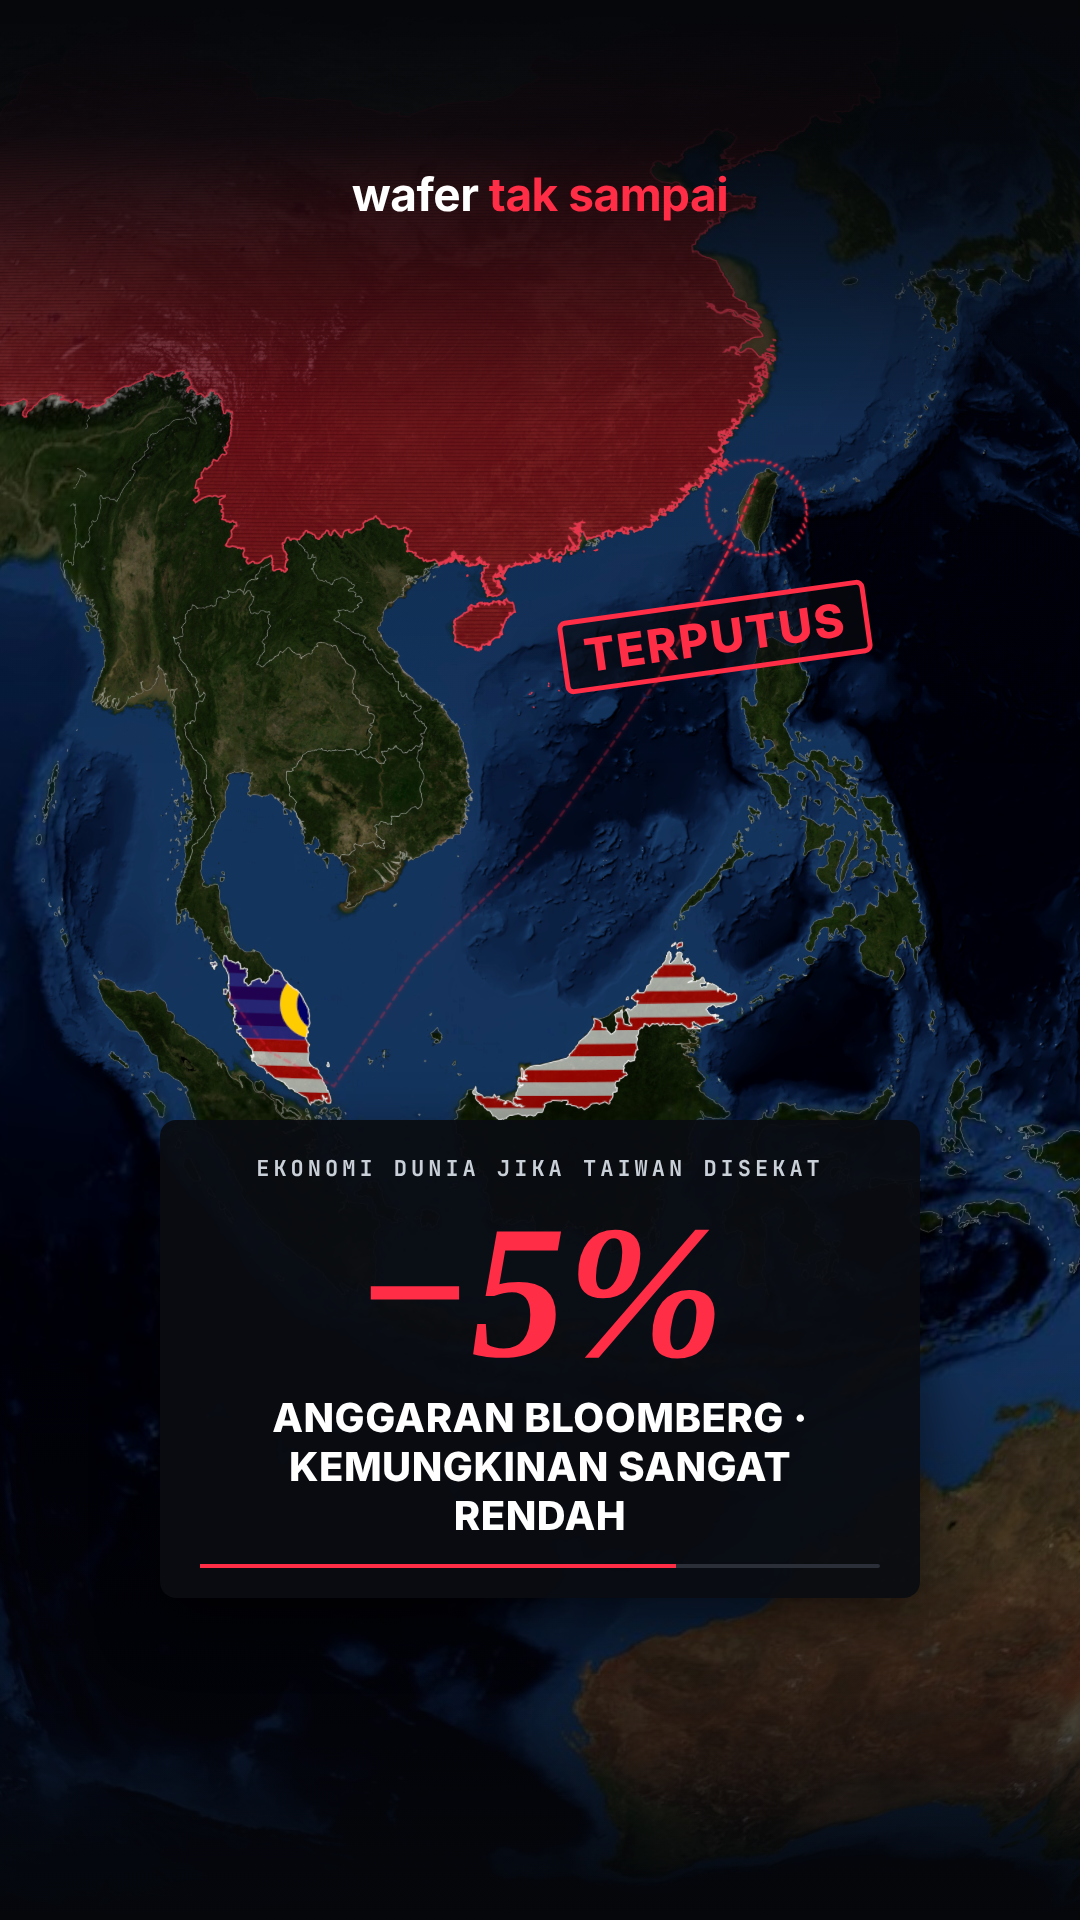
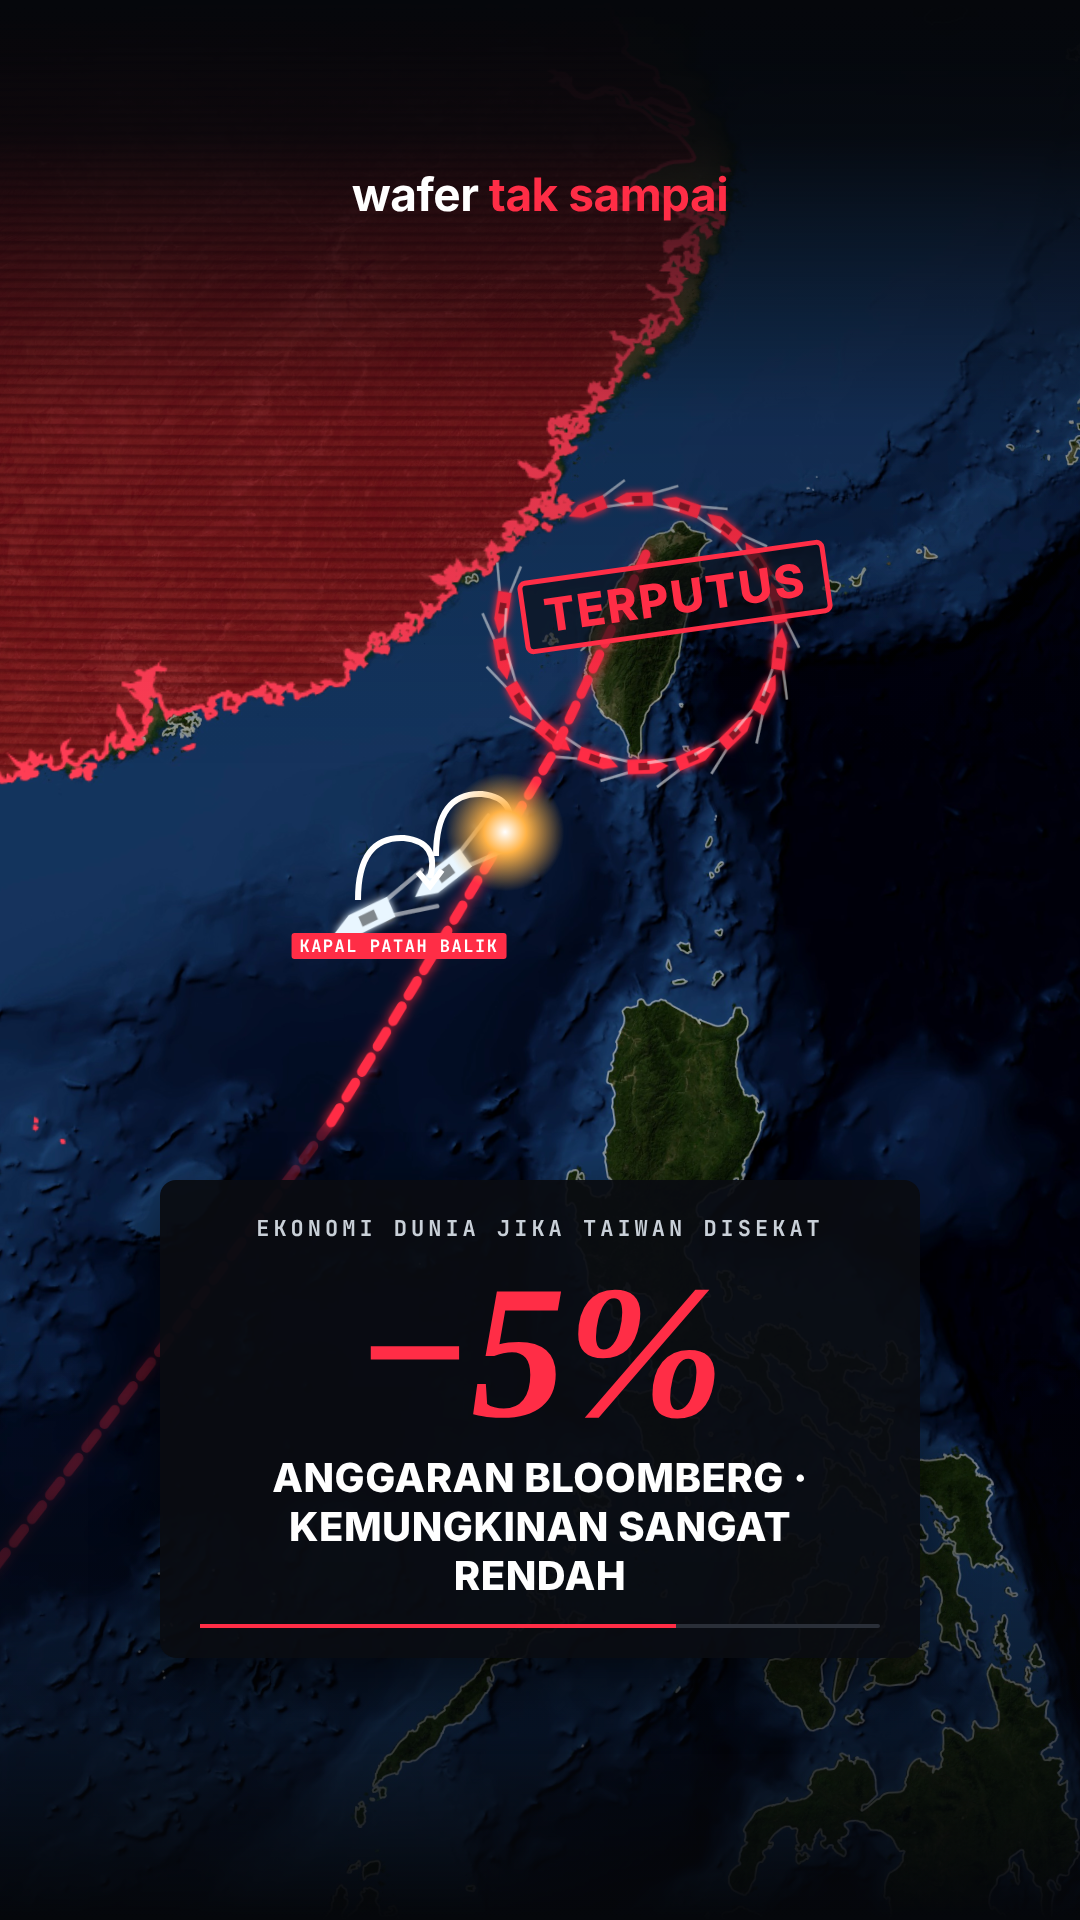
taiwan-video: storyboard adds moving ships, rocket arcs into drill zones, blockade turn-back
Claude-Session: https://claude.ai/code/session_01GRVCpWmiskqov5jCfdMsbZ

diff --git a/taiwan-video/boards/frame.html b/taiwan-video/boards/frame.html
@@ -116,6 +116,7 @@ function lanes() {
   c.setLineDash([]); L.tex.needsUpdate = true;
 }
 
+// (helpers that need html() are defined after it)
 // ---------- HTML helpers ----------
 const ov = document.getElementById("ov");
 const FL = {
@@ -141,6 +142,46 @@ const cap = (s) => html(`<div class="cap">${s}</div>`);
 const card = (top, outlet, date, head, foot, media) => html(`<div class="card" style="top:${top}px"><div class="hd"><b>${outlet}</b><i>${date}</i></div><div class="bd">${head}<div class="ft">${foot}</div></div>${media ? `<div class="media">${media}</div>` : ""}</div>`);
 const stat = (top, k, n, u) => html(`<div class="stat" style="top:${top}px"><div class="k">${k}</div><div class="n">${n}</div><div class="u">${u}</div><div class="bar"><div></div></div></div>`);
 
+
+// top-down ship silhouette (pointed bow) with a short wake
+function shipIcon(L, lo, la, ang, col, sz = 1, wake = true) {
+  const c = L.ctx; c.save(); c.translate(L.ox(lo), L.oy(la)); c.rotate(ang); c.scale(sz, sz);
+  if (wake) { c.strokeStyle = "rgba(255,255,255,.55)"; c.lineWidth = 2; c.beginPath(); c.moveTo(-14, -4); c.lineTo(-34, -9); c.moveTo(-14, 4); c.lineTo(-34, 9); c.stroke(); }
+  c.shadowColor = col; c.shadowBlur = 10; c.fillStyle = col;
+  c.beginPath(); c.moveTo(16, 0); c.lineTo(6, -5); c.lineTo(-14, -5); c.lineTo(-14, 5); c.lineTo(6, 5); c.closePath(); c.fill();
+  c.shadowBlur = 0; c.fillStyle = "rgba(0,0,0,.45)"; c.fillRect(-6, -2.5, 8, 5); c.restore();
+}
+function ringShips(n = 16, r = 1.55) {
+  for (let i = 0; i < n; i++) { const a = i / n * 6.283 + .2, lo = 120.9 + r * 1.1 * Math.cos(a), la = 23.7 + r * Math.sin(a);
+    if (lo < 119.6 && la > 24.2 && la < 25.6) continue; shipIcon(lines, lo, la, -(a + 1.57), "#ff2d46", 1.6); }
+  lines.tex.needsUpdate = true;
+}
+function cargoShips(P, sz = 2) { for (const [lo, la, a] of P) shipIcon(lines, lo, la, a, "#e9f6ff", sz); lines.tex.needsUpdate = true; }
+// approximate drill zone: dashed red box + hatch
+function zone(lo0, la0, lo1, la1) {
+  const L = lines, c = L.ctx, x = L.ox(lo0), y = L.oy(la1), w = L.ox(lo1) - x, h = L.oy(la0) - y;
+  c.save(); c.beginPath(); c.rect(x, y, w, h); c.clip(); c.strokeStyle = "rgba(255,45,70,.35)"; c.lineWidth = 3;
+  for (let k = -h; k < w; k += 14) { c.beginPath(); c.moveTo(x + k, y + h); c.lineTo(x + k + h, y); c.stroke(); } c.restore();
+  c.setLineDash([12, 8]); c.strokeStyle = "#ff2d46"; c.lineWidth = 4; c.strokeRect(x, y, w, h); c.setLineDash([]); L.tex.needsUpdate = true;
+}
+function splash(lo, la) { const L = lines, c = L.ctx; c.strokeStyle = "#ffd0a0"; for (const [r, a] of [[6, 1], [13, .7], [21, .4]]) { c.globalAlpha = a; c.lineWidth = 3; c.beginPath(); c.arc(L.ox(lo), L.oy(la), r, 0, 7); c.stroke(); } c.globalAlpha = 1; L.tex.needsUpdate = true; }
+// rocket arcs drawn on screen between projected points (lifted bezier), with trail glow + head
+function rockets(pairs, prog = 1) {
+  let svg = `<svg style="position:absolute;inset:0" width="1080" height="1920"><defs><linearGradient id="rg" x1="0" x2="1"><stop offset="0" stop-color="#ff9a3c" stop-opacity="0"/><stop offset="1" stop-color="#ffe2b0"/></linearGradient><filter id="gw"><feGaussianBlur stdDeviation="4"/></filter></defs>`;
+  for (const [a, b, p = prog] of pairs) {
+    const A = g.project(a[1], a[0]), B = g.project(b[1], b[0]); const d = Math.hypot(B.x - A.x, B.y - A.y);
+    const C = { x: (A.x + B.x) / 2, y: (A.y + B.y) / 2 - d * 0.55 };
+    const q = (t) => ({ x: (1 - t) ** 2 * A.x + 2 * (1 - t) * t * C.x + t * t * B.x, y: (1 - t) ** 2 * A.y + 2 * (1 - t) * t * C.y + t * t * B.y });
+    const pts = Array.from({ length: 30 }, (_, i) => q(i / 29 * p)); const path = "M" + pts.map((o) => `${o.x.toFixed(1)} ${o.y.toFixed(1)}`).join(" L");
+    const h = pts[pts.length - 1];
+    svg += `<path d="${path}" stroke="#ff6a2a" stroke-width="10" fill="none" opacity=".55" filter="url(#gw)"/><path d="${path}" stroke="#ffd9a8" stroke-width="3.5" fill="none" stroke-dasharray="2 7" stroke-linecap="round"/>`;
+    if (p < 1) svg += `<circle cx="${h.x}" cy="${h.y}" r="14" fill="#ffb347" filter="url(#gw)"/><circle cx="${h.x}" cy="${h.y}" r="6" fill="#fff"/>`;
+    svg += `<circle cx="${A.x}" cy="${A.y}" r="16" fill="#ff8a2a" opacity=".8" filter="url(#gw)"/><circle cx="${A.x}" cy="${A.y}" r="5" fill="#fff"/>`;
+  }
+  html(svg + "</svg>");
+}
+const tag = (lat, lon, t) => { const p = g.project(lat, lon); html(`<div class="sub red" style="position:absolute;left:${p.x}px;top:${p.y}px;transform:translate(-50%,-50%)">${t}</div>`); };
+
 // ---------- frames ----------
 const win = (txt) => html(`<div class="win">B-ROLL · FLOW AI<em>${txt}</em><i>ILUSTRASI · AI</i></div>`);
 const FR = {
@@ -150,14 +191,17 @@ const FR = {
     cap(`buat lebih <span class="r">90%</span> cip <span class="g">paling canggih</span>`);
     flagPin(23.2, 121.6, "TW", "TAIWAN"); locPin(24.8, 120.95, "HSINCHU", "TSMC");
     stat(1080, "CIP PALING CANGGIH DUNIA", "90%+", "BUATAN TAIWAN · 5nm KE BAWAH"); },
-  3() { g.setView({ lat: 23.8, lon: 120.2, dist: 0.95, tilt: 14, yShift: 0.13 }); lanes(); twGlow();
+  3() { g.setView({ lat: 23.8, lon: 120.2, dist: 0.95, tilt: 14, yShift: 0.13 }); lanes(); twGlow(); cargoShips([[117.5,22.3,-0.5],[120.2,24.9,-0.95],[118.6,22.2,-0.62],[122.6,23,-1.1],[115.6,20.8,-0.45]]);
     cap(`hampir separuh <span class="r">kapal kontena</span> <span class="g">dunia</span>`);
     locPin(24.3, 119.6, "SELAT TAIWAN", "LALUAN KAPAL");
     stat(1100, "KAPAL KONTENA DUNIA LALU SELAT TAIWAN", "48%", "DATA BLOOMBERG · 2022"); },
-  4() { g.setView({ lat: 24.2, lon: 120.4, dist: 1.25, tilt: 12, yShift: 0.13 }); chinaRed(); ring(); twGlow();
-    cap(`latihan <span class="r">Justice Mission</span>: <span class="g">kepung Taiwan</span>`);
-    flagPin(28.5, 116.5, "CN", "CHINA"); locPin(25.13, 121.74, "KEELUNG", "SEKATAN · LATIHAN", true); locPin(22.62, 120.27, "KAOHSIUNG", "SEKATAN · LATIHAN", true);
-    card(1150, "USNI NEWS", "31 DIS 2025", `China Wraps 'Justice Mission' <mark>Taiwan Blockade Drills</mark>`, "Tajuk asal · news.usni.org", ""); },
+  4() { g.setView({ lat: 23.7, lon: 120.6, dist: 0.5, tilt: 16, yShift: 0.13 }); chinaRed(); twGlow(); ringShips(14, 1.75);
+    zone(121.3, 25.6, 122.6, 26.4); zone(119.9, 21.2, 121.2, 21.9); splash(121.8, 26.0); splash(122.2, 25.9); splash(120.4, 21.5); splash(120.8, 21.6);
+    cap(`kepung Taiwan, <span class="r">tembak roket</span> <span class="g">ke perairan</span>`);
+    rockets([[[119.7, 25.5], [121.8, 26.0]], [[119.5, 25.3], [122.2, 25.9], .7], [[117.9, 24.0], [120.4, 21.5]], [[118.2, 24.3], [120.8, 21.6], .55]]);
+    tag(26.55, 122.0, "ZON LATIHAN"); tag(21.0, 120.55, "ZON LATIHAN");
+    locPin(25.13, 121.74, "KEELUNG", "SEKATAN · LATIHAN", true); locPin(22.62, 120.27, "KAOHSIUNG", "SEKATAN · LATIHAN", true);
+    card(1250, "USNI NEWS", "30 DIS 2025", `Chinese Forces <mark>Fire Rockets Near Taiwan</mark>, Practice Port Seizure`, "Tajuk asal · news.usni.org · zon = anggaran", ""); },
   5() { g.setView({ lat: 23, lon: 124.5, dist: 1.6, tilt: 12, yShift: 0.13 }); chinaRed(); ships(); twGlow();
     cap(`<span class="r">100+ kapal</span> China di <span class="g">Pasifik Barat</span>`);
     win("armada kapal perang dari udara, senja (klip fleet dari video LCS)");
@@ -170,10 +214,13 @@ const FR = {
     cap(`<span class="r">13%</span> kerja pasang & uji <span class="g">cip dunia</span>`);
     stat(1220, "KERJA PASANG, UJI & BUNGKUS CIP DUNIA", "13%", "MALAYSIA · ANGGARAN MIDA");
     html(`<div class="stat" style="top:1640px;padding:16px 40px;display:none"><div class="k">EKSPORT E&amp;E 2025</div><div class="n" style="font-size:96px;margin:6px 0 0">RM712b</div><div class="u" style="font-size:30px">≈ 44% EKSPORT MALAYSIA</div></div>`); },
-  8() { g.setView({ lat: 14.5, lon: 112, dist: 2.3, tilt: 8, yShift: 0.11 }); chinaRed(); malaysiaFlag(); ring(); waferLine(true);
-    cap(`wafer <span class="r">tak sampai</span>`);
-    html(`<div class="stamp" style="left:560px;top:600px">TERPUTUS</div>`);
-    stat(1120, "EKONOMI DUNIA JIKA TAIWAN DISEKAT", "−5%", "ANGGARAN BLOOMBERG · KEMUNGKINAN SANGAT RENDAH"); },
+  8() { g.setView({ lat: 22.6, lon: 119.4, dist: 0.85, tilt: 14, yShift: 0.13 }); chinaRed(); ringShips(18, 1.9); waferLine(true);
+    cargoShips([[118.0, 20.3, 2.5], [116.9, 19.7, 2.7]], 2.4);
+    for (const [lo, la] of [[118.0, 20.3], [116.9, 19.7]]) { const p = g.project(la, lo); html(`<svg style="position:absolute;left:${p.x - 20}px;top:${p.y - 100}px" width="110" height="100"><path d="M14 80 Q14 16 60 18 Q96 22 86 58" stroke="#fff" stroke-width="6" fill="none"/><path d="M74 52 L86 66 L98 50" stroke="#fff" stroke-width="6" fill="none"/></svg>`); }
+    { const p = g.project(20.9, 118.9); html(`<div style="position:absolute;left:${p.x}px;top:${p.y}px;transform:translate(-50%,-50%);width:120px;height:120px;border-radius:50%;background:radial-gradient(#fff,#ffb347 25%,rgba(255,80,40,0) 70%)"></div>`); }
+    cap(`wafer <span class="r">tak sampai</span>`); tag(19.3, 117.4, "KAPAL PATAH BALIK");
+    html(`<div class="stamp" style="left:520px;top:560px">TERPUTUS</div>`);
+    stat(1180, "EKONOMI DUNIA JIKA TAIWAN DISEKAT", "−5%", "ANGGARAN BLOOMBERG · KEMUNGKINAN SANGAT RENDAH"); },
   9() { g.setView({ lat: 12, lon: 110, dist: 3.0, tilt: 6, yShift: 0.03 }); malaysiaFlag(); waferLine(false); twGlow();
     cap(`kesannya sampai ke <span class="r">Pulau Pinang</span>`);
     html(`<div class="title" style="top:1230px"><div class="c" style="font-size:52px;letter-spacing:2px">JANGAN TERLEPAS</div><div class="ln" style="width:300px"></div><div style="font:800 26px Inter;margin-top:24px">Untuk part seterusnya &nbsp;<span style="background:#ff2d46;padding:10px 20px;border-radius:8px">Follow</span> <span style="background:#ff2d46;padding:10px 20px;border-radius:8px">Subscribe</span></div></div>`); },

diff --git a/taiwan-video/boards/storyboard.html b/taiwan-video/boards/storyboard.html
@@ -22,12 +22,12 @@ h1{font:800 46px Inter;letter-spacing:-1px}h1 span{color:#ff2d46}
 <div class="grid">
 <div class="f"><img src="frame-01.png"><div><div class="n">01 · 0:00</div><div class="t">Hook</div><div class="vo">"Kalau China sekat Taiwan… kilang cip di Pulau Pinang boleh terhenti. Ni sebabnya."</div><div class="fx">Glob berputar, Taiwan berdenyut merah, garis wafer menyala dari Taiwan ke Pulau Pinang. Tajuk slam masuk. <b>SFX:</b> whoosh + impak.</div></div></div>
 <div class="f"><img src="frame-02.png"><div><div class="n">02 · 0:04</div><div class="t">90% cip canggih</div><div class="vo">"Taiwan. Pulau kecil ni buat lebih sembilan puluh peratus cip paling canggih dunia."</div><div class="fx">Menjunam ke Taiwan, garis pantai menyala. Pin Hsinchu (TSMC). Kad <b>90%+</b> count-up, label "5nm KE BAWAH".</div></div></div>
-<div class="f"><img src="frame-03.png"><div><div class="n">03 · 0:09</div><div class="t">Selat Taiwan</div><div class="vo">"Dan hampir separuh kapal kontena dunia lalu Selat Taiwan."</div><div class="fx">Zoom out sikit, laluan kapal bertitik mengalir melalui selat. Kad <b>48%</b>, label "DATA BLOOMBERG · 2022".</div></div></div>
-<div class="f"><img src="frame-04.png"><div><div class="n">04 · 0:13</div><div class="t">Justice Mission</div><div class="vo">"China anggap Taiwan wilayahnya. Hujung tahun lepas… kepung Taiwan, berlatih sekat Keelung dan Kaohsiung."</div><div class="fx">China jadi merah, cincin kapal merah tertutup keliling Taiwan. Pin pelabuhan merah. Kad USNI, highlight "Taiwan Blockade Drills".</div></div></div>
+<div class="f"><img src="frame-03.png"><div><div class="n">03 · 0:09</div><div class="t">Selat Taiwan</div><div class="vo">"Dan hampir separuh kapal kontena dunia lalu Selat Taiwan."</div><div class="fx">Zoom out sikit, laluan kapal bertitik mengalir melalui selat, <b>ikon kapal kontena bergerak</b> ikut laluan. Kad <b>48%</b>, label "DATA BLOOMBERG · 2022".</div></div></div>
+<div class="f"><img src="frame-04.png"><div><div class="n">04 · 0:13</div><div class="t">Justice Mission</div><div class="vo">"China anggap Taiwan wilayahnya. Hujung tahun lepas… kepung Taiwan, tembak roket ke perairan, berlatih sekat Keelung dan Kaohsiung."</div><div class="fx">Zoom rapat ke Taiwan. <b>Kapal perang merah belayar</b> membentuk cincin. <b>Roket melengkung</b> dari pantai China (kilat + ekor api) jatuh ke 2 zon latihan (anggaran), percikan bulat. Pin pelabuhan merah. Kad USNI 30 Dis, highlight "Fire Rockets Near Taiwan".</div></div></div>
 <div class="f"><img src="frame-05.png"><div><div class="n">05 · 0:22</div><div class="t">100+ kapal</div><div class="vo">"Awal bulan ni, pegawai Taiwan kata lebih seratus kapal China berkumpul di Pasifik Barat, tanpa diumumkan."</div><div class="fx">Pan ke timur, titik kapal berpusu. Tetingkap <b>B-roll armada</b> (klip LCS) + kad Taipei Times. Hentakan pada "seratus".</div></div></div>
 <div class="f"><img src="frame-06.png"><div><div class="n">06 · 0:29</div><div class="t">Wafer ke Pulau Pinang</div><div class="vo">"Apa kena-mengena dengan kita? Banyak wafer cip dari Taiwan dihantar ke Pulau Pinang untuk dipasang dan diuji."</div><div class="fx">Kamera terbang ke selatan ikut garis wafer yang bergerak. Malaysia diisi bendera. Pin Hsinchu ➜ Pulau Pinang. <b>B-roll:</b> wafer dalam bilik bersih.</div></div></div>
 <div class="f"><img src="frame-07.png"><div><div class="n">07 · 0:36</div><div class="t">13% dunia</div><div class="vo">"Malaysia pegang kira-kira tiga belas peratus kerja pasang dan uji cip dunia. Elektrik dan elektronik pula hampir separuh eksport negara."</div><div class="fx">Zoom ke Pulau Pinang. <b>B-roll:</b> lengan robot pasang cip. Kad <b>13%</b> (ANGGARAN MIDA), lepas tu kad <b>RM712 bilion ≈ 44%</b> eksport.</div></div></div>
-<div class="f"><img src="frame-08.png"><div><div class="n">08 · 0:45</div><div class="t">Terputus</div><div class="vo">"Kalau Taiwan disekat, wafer tak sampai… Bloomberg kata kemungkinan sangat rendah. Tapi kalau berlaku, ekonomi dunia boleh susut kira-kira lima peratus."</div><div class="fx">Cincin kapal tutup, garis wafer jadi merah dan putus, cop <b>TERPUTUS</b>. Kad <b>−5%</b> + label "KEMUNGKINAN SANGAT RENDAH".</div></div></div>
+<div class="f"><img src="frame-08.png"><div><div class="n">08 · 0:45</div><div class="t">Terputus</div><div class="vo">"Kalau Taiwan disekat, wafer tak sampai… Bloomberg kata kemungkinan sangat rendah. Tapi kalau berlaku, ekonomi dunia boleh susut kira-kira lima peratus."</div><div class="fx">Zoom ke selatan Taiwan: cincin kapal perang tutup, <b>kapal kontena sampai lalu patah balik</b> (anak panah U), garis wafer merah putus dengan percikan api, cop <b>TERPUTUS</b>. Kad <b>−5%</b> + label "KEMUNGKINAN SANGAT RENDAH".</div></div></div>
 <div class="f"><img src="frame-09.png"><div><div class="n">09 · 0:55</div><div class="t">Penutup</div><div class="vo">"Taiwan nampak jauh. Tapi kalau selat tu tertutup… kesannya sampai ke Pulau Pinang."</div><div class="fx">Tarik balik ke glob, garis Taiwan–Pulau Pinang menyala semula. Outro: JANGAN TERLEPAS + [Follow] [Subscribe].</div></div></div>
 </div>
 <div class="meta" style="margin-top:30px">Caption atas, perkataan demi perkataan · zoom punch pada kata kunci · B-roll dalam tetingkap kecil (ILUSTRASI · AI) · satu shot kamera berterusan</div>

diff --git a/taiwan-video/SCRIPT.md b/taiwan-video/SCRIPT.md
@@ -8,7 +8,7 @@ Nada: pembaca berita, laju. Anggaran ~155 patah perkataan, ~60 s selepas dilajuk
 | 01 | Kalau China sekat Taiwan… kilang cip di Pulau Pinang boleh terhenti. Ni sebabnya. | Glob berputar, Taiwan berdenyut merah, garis putih Taiwan → Pulau Pinang · tajuk **KALAU TAIWAN DISEKAT** |
 | 02 | Taiwan. Pulau kecil ni buat lebih sembilan puluh peratus cip paling canggih dunia. | Zoom ke Taiwan, pin bendera · kad stat **90%+** (5nm ke bawah) |
 | 03 | Dan hampir separuh kapal kontena dunia lalu Selat Taiwan. | Laluan kapal bertitik mengalir melalui selat · kad stat **48%** (data 2022) |
-| 04 | China anggap Taiwan wilayahnya. Hujung tahun lepas, China buat latihan Justice Mission: kepung Taiwan, dan berlatih sekat pelabuhan Keelung dan Kaohsiung. | China merah, cincin kapal merah keliling Taiwan, pin Keelung & Kaohsiung · kad **USNI News** |
+| 04 | China anggap Taiwan wilayahnya. Hujung tahun lepas, China buat latihan Justice Mission: kepung Taiwan, tembak roket ke perairan berhampiran, dan berlatih sekat pelabuhan Keelung dan Kaohsiung. | China merah, cincin kapal merah keliling Taiwan, pin Keelung & Kaohsiung · kad **USNI News** |
 | 05 | Awal bulan ni, pegawai Taiwan kata lebih seratus kapal China berkumpul di Pasifik Barat, tanpa diumumkan. | Titik kapal berpusu di timur Taiwan · kad **Taipei Times** + tetingkap B-roll armada |
 | 06 | Apa kena-mengena dengan kita? Banyak wafer cip dari Taiwan dihantar ke Pulau Pinang untuk dipasang dan diuji. | Kamera terbang ke selatan ikut garis wafer Hsinchu → Pulau Pinang · Malaysia bendera · B-roll wafer |
 | 07 | Malaysia pegang kira-kira tiga belas peratus kerja pasang dan uji cip dunia. Elektrik dan elektronik pula hampir separuh eksport negara. | Zoom Pulau Pinang, pin Bayan Lepas & Kulim · stat **13%** lalu **RM712 bilion / ~44%** |
@@ -17,7 +17,7 @@ Nada: pembaca berita, laju. Anggaran ~155 patah perkataan, ~60 s selepas dilajuk
 
 ## Versi satu perenggan (untuk rakam VO)
 
-Kalau China sekat Taiwan… kilang cip di Pulau Pinang boleh terhenti. Ni sebabnya. Taiwan. Pulau kecil ni buat lebih sembilan puluh peratus cip paling canggih dunia. Dan hampir separuh kapal kontena dunia lalu Selat Taiwan. China anggap Taiwan wilayahnya. Hujung tahun lepas, China buat latihan Justice Mission: kepung Taiwan, dan berlatih sekat pelabuhan Keelung dan Kaohsiung. Awal bulan ni, pegawai Taiwan kata lebih seratus kapal China berkumpul di Pasifik Barat, tanpa diumumkan. Apa kena-mengena dengan kita? Banyak wafer cip dari Taiwan dihantar ke Pulau Pinang untuk dipasang dan diuji. Malaysia pegang kira-kira tiga belas peratus kerja pasang dan uji cip dunia. Elektrik dan elektronik pula hampir separuh eksport negara. Kalau Taiwan disekat, wafer tak sampai. Barisan kilang boleh berhenti. Bloomberg kata kemungkinan sekatan sangat rendah. Tapi kalau berlaku, ekonomi dunia boleh susut kira-kira lima peratus. Taiwan nampak jauh. Tapi kalau selat tu tertutup… kesannya sampai ke Pulau Pinang.
+Kalau China sekat Taiwan… kilang cip di Pulau Pinang boleh terhenti. Ni sebabnya. Taiwan. Pulau kecil ni buat lebih sembilan puluh peratus cip paling canggih dunia. Dan hampir separuh kapal kontena dunia lalu Selat Taiwan. China anggap Taiwan wilayahnya. Hujung tahun lepas, China buat latihan Justice Mission: kepung Taiwan, tembak roket ke perairan berhampiran, dan berlatih sekat pelabuhan Keelung dan Kaohsiung. Awal bulan ni, pegawai Taiwan kata lebih seratus kapal China berkumpul di Pasifik Barat, tanpa diumumkan. Apa kena-mengena dengan kita? Banyak wafer cip dari Taiwan dihantar ke Pulau Pinang untuk dipasang dan diuji. Malaysia pegang kira-kira tiga belas peratus kerja pasang dan uji cip dunia. Elektrik dan elektronik pula hampir separuh eksport negara. Kalau Taiwan disekat, wafer tak sampai. Barisan kilang boleh berhenti. Bloomberg kata kemungkinan sekatan sangat rendah. Tapi kalau berlaku, ekonomi dunia boleh susut kira-kira lima peratus. Taiwan nampak jauh. Tapi kalau selat tu tertutup… kesannya sampai ke Pulau Pinang.
 
 ## Semakan fakta
 Penuh dalam `research/taiwan-sekatan-malaysia-2026.md`. Perhatian:

diff --git a/research/taiwan-sekatan-malaysia-2026.md b/research/taiwan-sekatan-malaysia-2026.md
@@ -13,9 +13,13 @@
 | Malaysia ≈13% kerja pasang, uji & bungkus cip dunia | ✅ | Anggaran MIDA. **Bukan** 13% semua cip dunia. Kad: "ANGGARAN MIDA". |
 | E&E ≈ separuh eksport Malaysia | ✅ | 2025: RM712 bilion (≈44% eksport); Jan–Ogos 2026: 48.4% (Menteri Johari, Dewan Rakyat, Okt 2026). VO "hampir separuh". |
 | Sekatan Taiwan → ekonomi dunia susut ≈5% | ⚠ | Bloomberg Economics (Feb 2026, dipetik Chatham House / Taiwan News: 5–5.3% KDNK dunia, tahun pertama). Bloomberg nilai kebarangkalian sekatan "sangat rendah" → VO sebut dua-dua. Perang penuh ≈ $10.6T (9.6%) tak diguna. |
+| Justice Mission: roket ditembak ke perairan utara & selatan Taiwan (30 Dis 2025) | ✅ | USNI News 30 Dis 2025 ("Chinese Forces Fire Rockets Near Taiwan, Practice Port Seizure"); Al Jazeera 30 Dis (pengawal pantai Taiwan: 7 roket di 2 zon); MND Taiwan: 27 roket (Marine Link). Angka berbeza → VO tak sebut jumlah. Roket dari darat (pantai Fujian), bukan dari kapal → animasi tembakan dari pantai. Zon dilukis anggaran. |
 | Kilang Pulau Pinang "pasti" tutup | ❌ | Tiada sumber. VO guna "boleh terhenti" (kemungkinan), bukan pasti. |
 
 ## Sumber
+- https://news.usni.org/2025/12/30/chinese-forces-fire-rockets-near-taiwan-practice-port-seizure-amphibious-forces
+- https://www.aljazeera.com/news/2025/12/30/china-kicks-off-second-day-of-military-drills-around-taiwan
+- https://www.marinelink.com/news/china-launches-rockets-taiwan-waters-533929
 - https://www.taipeitimes.com/News/taiwan/archives/2026/11/13/2003867684
 - https://www.france24.com/en/asia-pacific/20261113-chinese-army-military-exercises-taiwan
 - https://news.usni.org/2025/12/31/china-wraps-justice-mission-taiwan-blockade-drills
